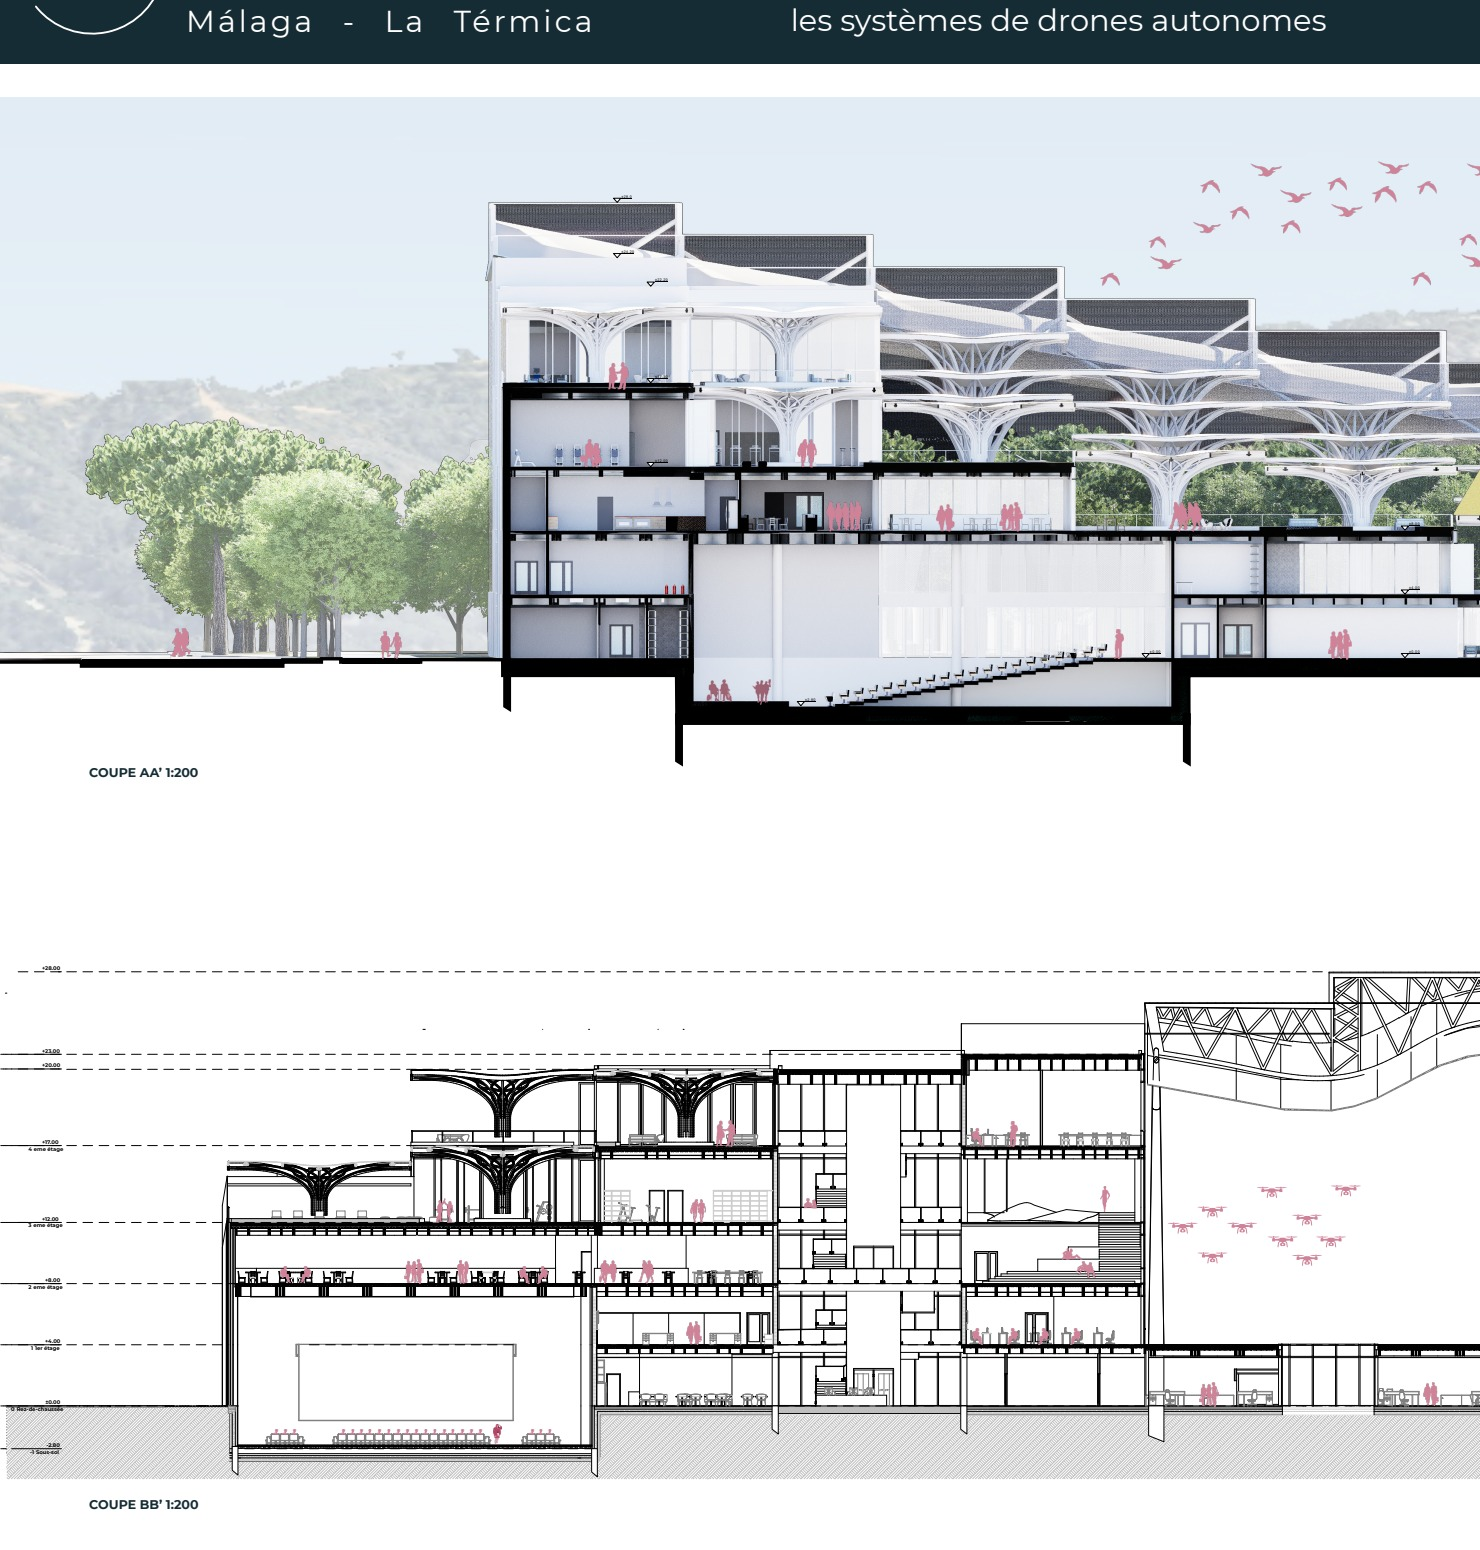
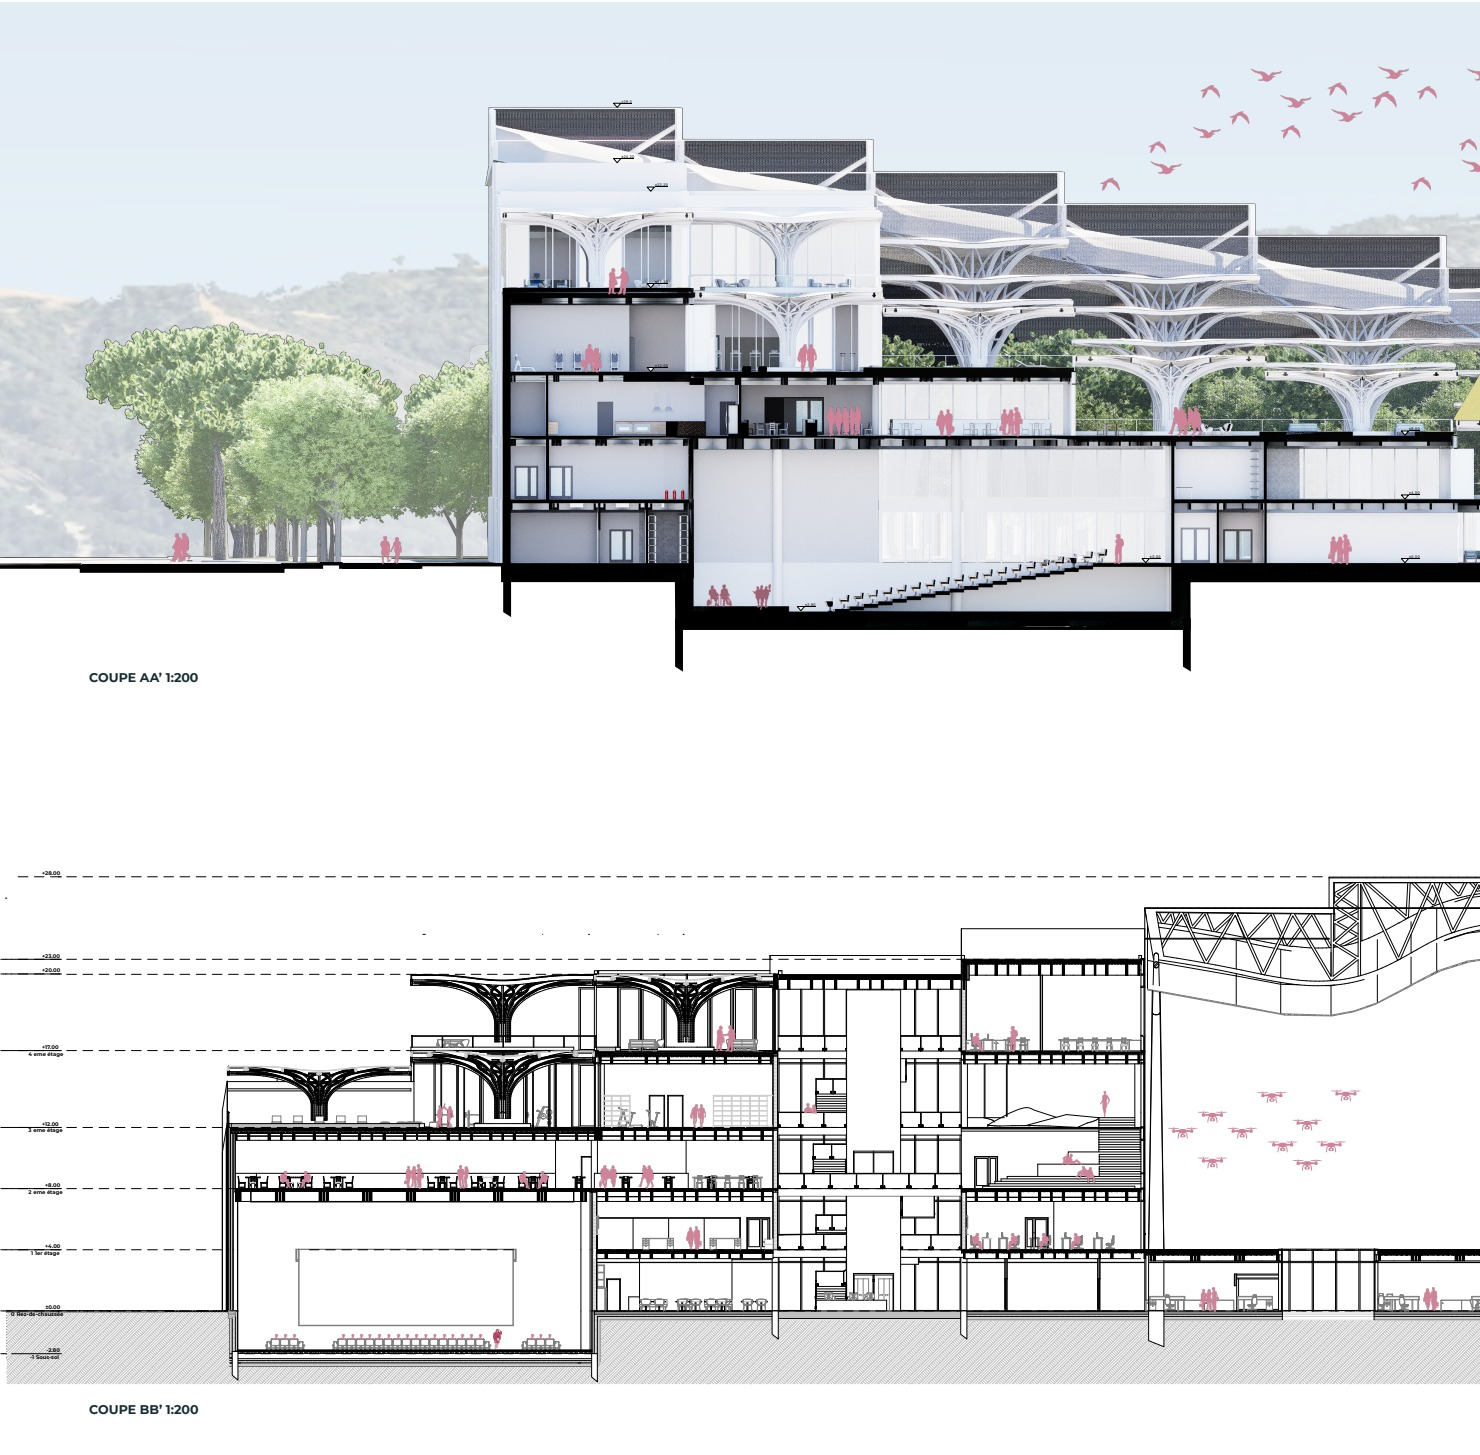
Quitar la barra de titulo de las planchas en La Colmena y forzar recarga de cache
Las imagenes 1, 2(sin cambio), 8, 14, 16 (fuente: planchas A1) incluian la barra de titulo oscura del encabezado del board (con fecha y logo ENSAM parcialmente cortado), lo cual se veia fuera de lugar mezclado con las diapositivas blancas de la presentacion. Se recorta esa barra en las 4 restantes. La imagen 15 (ombriere) se reemplaza por la diapositiva limpia equivalente de Presentacion - La Colmena.pdf, que si existe para ese contenido.

Se agrega ?v=2 a las rutas de imagenes de colmena para evitar que el navegador o el CDN de GitHub Pages sirvan versiones cacheadas de iteraciones anteriores.

diff --git a/proyectos/colmena.html b/proyectos/colmena.html
@@ -29,7 +29,7 @@
 </header>
 
 <section class="hero sub" id="top">
-  <img src="../assets/proyectos/colmena/colmena-21.jpg" alt="La Colmena">
+  <img src="../assets/proyectos/colmena/colmena-21.jpg?v=2" alt="La Colmena">
   <div class="scrim"></div>
   <div class="content">
     <div class="breadcrumb"><a href="../index.html#projets">&larr; <span class="fr">Retour au portfolio</span><span class="en">Back to portfolio</span></a></div>
@@ -141,7 +141,7 @@
       <h3><span class="fr">Vidéo de présentation</span><span class="en">Presentation video</span></h3>
     </div>
     <div class="video-wrap reveal">
-      <video controls preload="none" poster="../assets/proyectos/colmena/colmena-21.jpg">
+      <video controls preload="none" poster="../assets/proyectos/colmena/colmena-21.jpg?v=2">
         <source src="../assets/proyectos/colmena/la-colmena-video.mp4" type="video/mp4">
       </video>
     </div>
@@ -151,30 +151,30 @@
       <div class="count">24 <span class="fr">images</span><span class="en">images</span></div>
     </div>
     <div class="gallery-grid">
-      <figure class="reveal"><img src="../assets/proyectos/colmena/colmena-01.jpg" alt="colmena — Plan masse, Paseo Re-Encuentro del Litoral" data-full="../assets/proyectos/colmena/colmena-01.jpg" loading="lazy"></figure>
-      <figure class="reveal"><img src="../assets/proyectos/colmena/colmena-02.jpg" alt="colmena — Axonométrie dans le parc d'innovation" data-full="../assets/proyectos/colmena/colmena-02.jpg" loading="lazy"></figure>
-      <figure class="reveal"><img src="../assets/proyectos/colmena/colmena-03.jpg" alt="colmena — Morphologie, mise en place de la trame 12×12m" data-full="../assets/proyectos/colmena/colmena-03.jpg" loading="lazy"></figure>
-      <figure class="reveal"><img src="../assets/proyectos/colmena/colmena-04.jpg" alt="colmena — Morphologie, extrusion en U" data-full="../assets/proyectos/colmena/colmena-04.jpg" loading="lazy"></figure>
-      <figure class="reveal"><img src="../assets/proyectos/colmena/colmena-05.jpg" alt="colmena — Morphologie, travail des terrasses" data-full="../assets/proyectos/colmena/colmena-05.jpg" loading="lazy"></figure>
-      <figure class="reveal"><img src="../assets/proyectos/colmena/colmena-06.jpg" alt="colmena — Morphologie, répartition du programme" data-full="../assets/proyectos/colmena/colmena-06.jpg" loading="lazy"></figure>
-      <figure class="reveal"><img src="../assets/proyectos/colmena/colmena-07.jpg" alt="colmena — Perspective nocturne depuis l'Avenida Imperio Argentina" data-full="../assets/proyectos/colmena/colmena-07.jpg" loading="lazy"></figure>
-      <figure class="reveal"><img src="../assets/proyectos/colmena/colmena-08.jpg" alt="colmena — Coupe urbaine 1/900" data-full="../assets/proyectos/colmena/colmena-08.jpg" loading="lazy"></figure>
-      <figure class="reveal"><img src="../assets/proyectos/colmena/colmena-09.jpg" alt="colmena — Plan du rez-de-chaussée" data-full="../assets/proyectos/colmena/colmena-09.jpg" loading="lazy"></figure>
-      <figure class="reveal"><img src="../assets/proyectos/colmena/colmena-10.jpg" alt="colmena — Plan R+1" data-full="../assets/proyectos/colmena/colmena-10.jpg" loading="lazy"></figure>
-      <figure class="reveal"><img src="../assets/proyectos/colmena/colmena-11.jpg" alt="colmena — Plan R+2" data-full="../assets/proyectos/colmena/colmena-11.jpg" loading="lazy"></figure>
-      <figure class="reveal"><img src="../assets/proyectos/colmena/colmena-12.jpg" alt="colmena — Plan R+3" data-full="../assets/proyectos/colmena/colmena-12.jpg" loading="lazy"></figure>
-      <figure class="reveal"><img src="../assets/proyectos/colmena/colmena-13.jpg" alt="colmena — Vue sur la façade sud depuis le parc" data-full="../assets/proyectos/colmena/colmena-13.jpg" loading="lazy"></figure>
-      <figure class="reveal"><img src="../assets/proyectos/colmena/colmena-14.jpg" alt="colmena — Coupes AA' et BB' 1/200" data-full="../assets/proyectos/colmena/colmena-14.jpg" loading="lazy"></figure>
-      <figure class="reveal"><img src="../assets/proyectos/colmena/colmena-15.jpg" alt="colmena — Détail de l'ombrière et récupération d'eau" data-full="../assets/proyectos/colmena/colmena-15.jpg" loading="lazy"></figure>
-      <figure class="reveal"><img src="../assets/proyectos/colmena/colmena-16.jpg" alt="colmena — Axonométrie éclatée du programme" data-full="../assets/proyectos/colmena/colmena-16.jpg" loading="lazy"></figure>
-      <figure class="reveal"><img src="../assets/proyectos/colmena/colmena-17.jpg" alt="colmena — Rendu intérieur, galerie d'exposition" data-full="../assets/proyectos/colmena/colmena-17.jpg" loading="lazy"></figure>
-      <figure class="reveal"><img src="../assets/proyectos/colmena/colmena-18.jpg" alt="colmena — Rendu intérieur, café" data-full="../assets/proyectos/colmena/colmena-18.jpg" loading="lazy"></figure>
-      <figure class="reveal"><img src="../assets/proyectos/colmena/colmena-19.jpg" alt="colmena — Vue sur la zone de vol au crépuscule" data-full="../assets/proyectos/colmena/colmena-19.jpg" loading="lazy"></figure>
-      <figure class="reveal"><img src="../assets/proyectos/colmena/colmena-20.jpg" alt="colmena — Rendu intérieur, restaurant" data-full="../assets/proyectos/colmena/colmena-20.jpg" loading="lazy"></figure>
-      <figure class="reveal"><img src="../assets/proyectos/colmena/colmena-21.jpg" alt="colmena — Perspective sur la terrasse de la salle" data-full="../assets/proyectos/colmena/colmena-21.jpg" loading="lazy"></figure>
-      <figure class="reveal"><img src="../assets/proyectos/colmena/colmena-22.jpg" alt="colmena — Étude volumétrique, maquette blanche" data-full="../assets/proyectos/colmena/colmena-22.jpg" loading="lazy"></figure>
-      <figure class="reveal"><img src="../assets/proyectos/colmena/colmena-23.jpg" alt="colmena — Vue aérienne avec drone de livraison" data-full="../assets/proyectos/colmena/colmena-23.jpg" loading="lazy"></figure>
-      <figure class="reveal"><img src="../assets/proyectos/colmena/colmena-24.jpg" alt="colmena — Vue sur l'avenue depuis le parc d'innovation" data-full="../assets/proyectos/colmena/colmena-24.jpg" loading="lazy"></figure>
+      <figure class="reveal"><img src="../assets/proyectos/colmena/colmena-01.jpg?v=2" alt="colmena — Plan masse, Paseo Re-Encuentro del Litoral" data-full="../assets/proyectos/colmena/colmena-01.jpg?v=2" loading="lazy"></figure>
+      <figure class="reveal"><img src="../assets/proyectos/colmena/colmena-02.jpg?v=2" alt="colmena — Axonométrie dans le parc d'innovation" data-full="../assets/proyectos/colmena/colmena-02.jpg?v=2" loading="lazy"></figure>
+      <figure class="reveal"><img src="../assets/proyectos/colmena/colmena-03.jpg?v=2" alt="colmena — Morphologie, mise en place de la trame 12×12m" data-full="../assets/proyectos/colmena/colmena-03.jpg?v=2" loading="lazy"></figure>
+      <figure class="reveal"><img src="../assets/proyectos/colmena/colmena-04.jpg?v=2" alt="colmena — Morphologie, extrusion en U" data-full="../assets/proyectos/colmena/colmena-04.jpg?v=2" loading="lazy"></figure>
+      <figure class="reveal"><img src="../assets/proyectos/colmena/colmena-05.jpg?v=2" alt="colmena — Morphologie, travail des terrasses" data-full="../assets/proyectos/colmena/colmena-05.jpg?v=2" loading="lazy"></figure>
+      <figure class="reveal"><img src="../assets/proyectos/colmena/colmena-06.jpg?v=2" alt="colmena — Morphologie, répartition du programme" data-full="../assets/proyectos/colmena/colmena-06.jpg?v=2" loading="lazy"></figure>
+      <figure class="reveal"><img src="../assets/proyectos/colmena/colmena-07.jpg?v=2" alt="colmena — Perspective nocturne depuis l'Avenida Imperio Argentina" data-full="../assets/proyectos/colmena/colmena-07.jpg?v=2" loading="lazy"></figure>
+      <figure class="reveal"><img src="../assets/proyectos/colmena/colmena-08.jpg?v=2" alt="colmena — Coupe urbaine 1/900" data-full="../assets/proyectos/colmena/colmena-08.jpg?v=2" loading="lazy"></figure>
+      <figure class="reveal"><img src="../assets/proyectos/colmena/colmena-09.jpg?v=2" alt="colmena — Plan du rez-de-chaussée" data-full="../assets/proyectos/colmena/colmena-09.jpg?v=2" loading="lazy"></figure>
+      <figure class="reveal"><img src="../assets/proyectos/colmena/colmena-10.jpg?v=2" alt="colmena — Plan R+1" data-full="../assets/proyectos/colmena/colmena-10.jpg?v=2" loading="lazy"></figure>
+      <figure class="reveal"><img src="../assets/proyectos/colmena/colmena-11.jpg?v=2" alt="colmena — Plan R+2" data-full="../assets/proyectos/colmena/colmena-11.jpg?v=2" loading="lazy"></figure>
+      <figure class="reveal"><img src="../assets/proyectos/colmena/colmena-12.jpg?v=2" alt="colmena — Plan R+3" data-full="../assets/proyectos/colmena/colmena-12.jpg?v=2" loading="lazy"></figure>
+      <figure class="reveal"><img src="../assets/proyectos/colmena/colmena-13.jpg?v=2" alt="colmena — Vue sur la façade sud depuis le parc" data-full="../assets/proyectos/colmena/colmena-13.jpg?v=2" loading="lazy"></figure>
+      <figure class="reveal"><img src="../assets/proyectos/colmena/colmena-14.jpg?v=2" alt="colmena — Coupes AA' et BB' 1/200" data-full="../assets/proyectos/colmena/colmena-14.jpg?v=2" loading="lazy"></figure>
+      <figure class="reveal"><img src="../assets/proyectos/colmena/colmena-15.jpg?v=2" alt="colmena — Détail de l'ombrière et récupération d'eau" data-full="../assets/proyectos/colmena/colmena-15.jpg?v=2" loading="lazy"></figure>
+      <figure class="reveal"><img src="../assets/proyectos/colmena/colmena-16.jpg?v=2" alt="colmena — Axonométrie éclatée du programme" data-full="../assets/proyectos/colmena/colmena-16.jpg?v=2" loading="lazy"></figure>
+      <figure class="reveal"><img src="../assets/proyectos/colmena/colmena-17.jpg?v=2" alt="colmena — Rendu intérieur, galerie d'exposition" data-full="../assets/proyectos/colmena/colmena-17.jpg?v=2" loading="lazy"></figure>
+      <figure class="reveal"><img src="../assets/proyectos/colmena/colmena-18.jpg?v=2" alt="colmena — Rendu intérieur, café" data-full="../assets/proyectos/colmena/colmena-18.jpg?v=2" loading="lazy"></figure>
+      <figure class="reveal"><img src="../assets/proyectos/colmena/colmena-19.jpg?v=2" alt="colmena — Vue sur la zone de vol au crépuscule" data-full="../assets/proyectos/colmena/colmena-19.jpg?v=2" loading="lazy"></figure>
+      <figure class="reveal"><img src="../assets/proyectos/colmena/colmena-20.jpg?v=2" alt="colmena — Rendu intérieur, restaurant" data-full="../assets/proyectos/colmena/colmena-20.jpg?v=2" loading="lazy"></figure>
+      <figure class="reveal"><img src="../assets/proyectos/colmena/colmena-21.jpg?v=2" alt="colmena — Perspective sur la terrasse de la salle" data-full="../assets/proyectos/colmena/colmena-21.jpg?v=2" loading="lazy"></figure>
+      <figure class="reveal"><img src="../assets/proyectos/colmena/colmena-22.jpg?v=2" alt="colmena — Étude volumétrique, maquette blanche" data-full="../assets/proyectos/colmena/colmena-22.jpg?v=2" loading="lazy"></figure>
+      <figure class="reveal"><img src="../assets/proyectos/colmena/colmena-23.jpg?v=2" alt="colmena — Vue aérienne avec drone de livraison" data-full="../assets/proyectos/colmena/colmena-23.jpg?v=2" loading="lazy"></figure>
+      <figure class="reveal"><img src="../assets/proyectos/colmena/colmena-24.jpg?v=2" alt="colmena — Vue sur l'avenue depuis le parc d'innovation" data-full="../assets/proyectos/colmena/colmena-24.jpg?v=2" loading="lazy"></figure>
     </div>
   </div>
 </section>

diff --git a/index.html b/index.html
@@ -114,7 +114,7 @@
         <span class="meta">Naples — <span class="fr">résidence étudiante</span><span class="en">student housing</span></span>
       </a>
 
-      <a class="index-row" href="proyectos/colmena.html" data-preview="assets/proyectos/colmena/colmena-21.jpg">
+      <a class="index-row" href="proyectos/colmena.html" data-preview="assets/proyectos/colmena/colmena-21.jpg?v=2">
         <span class="arrow">
           <svg width="18" height="14" viewBox="0 0 18 14" fill="none"><path d="M1 7H17M17 7L11 1M17 7L11 13" stroke="currentColor" stroke-width="1.3"/></svg>
         </span>
@@ -278,7 +278,7 @@
           <svg width="16" height="12" viewBox="0 0 16 12" fill="none"><path d="M1 6H15M15 6L10 1M15 6L10 11" stroke="currentColor" stroke-width="1.3"/></svg>
         </a>
       </div>
-      <a href="proyectos/colmena.html" aria-label="La Colmena"><figure><img src="assets/proyectos/colmena/colmena-21.jpg" alt="La Colmena — vue aérienne"></figure></a>
+      <a href="proyectos/colmena.html" aria-label="La Colmena"><figure><img src="assets/proyectos/colmena/colmena-21.jpg?v=2" alt="La Colmena — vue aérienne"></figure></a>
     </div>
   </div>
 </section>
